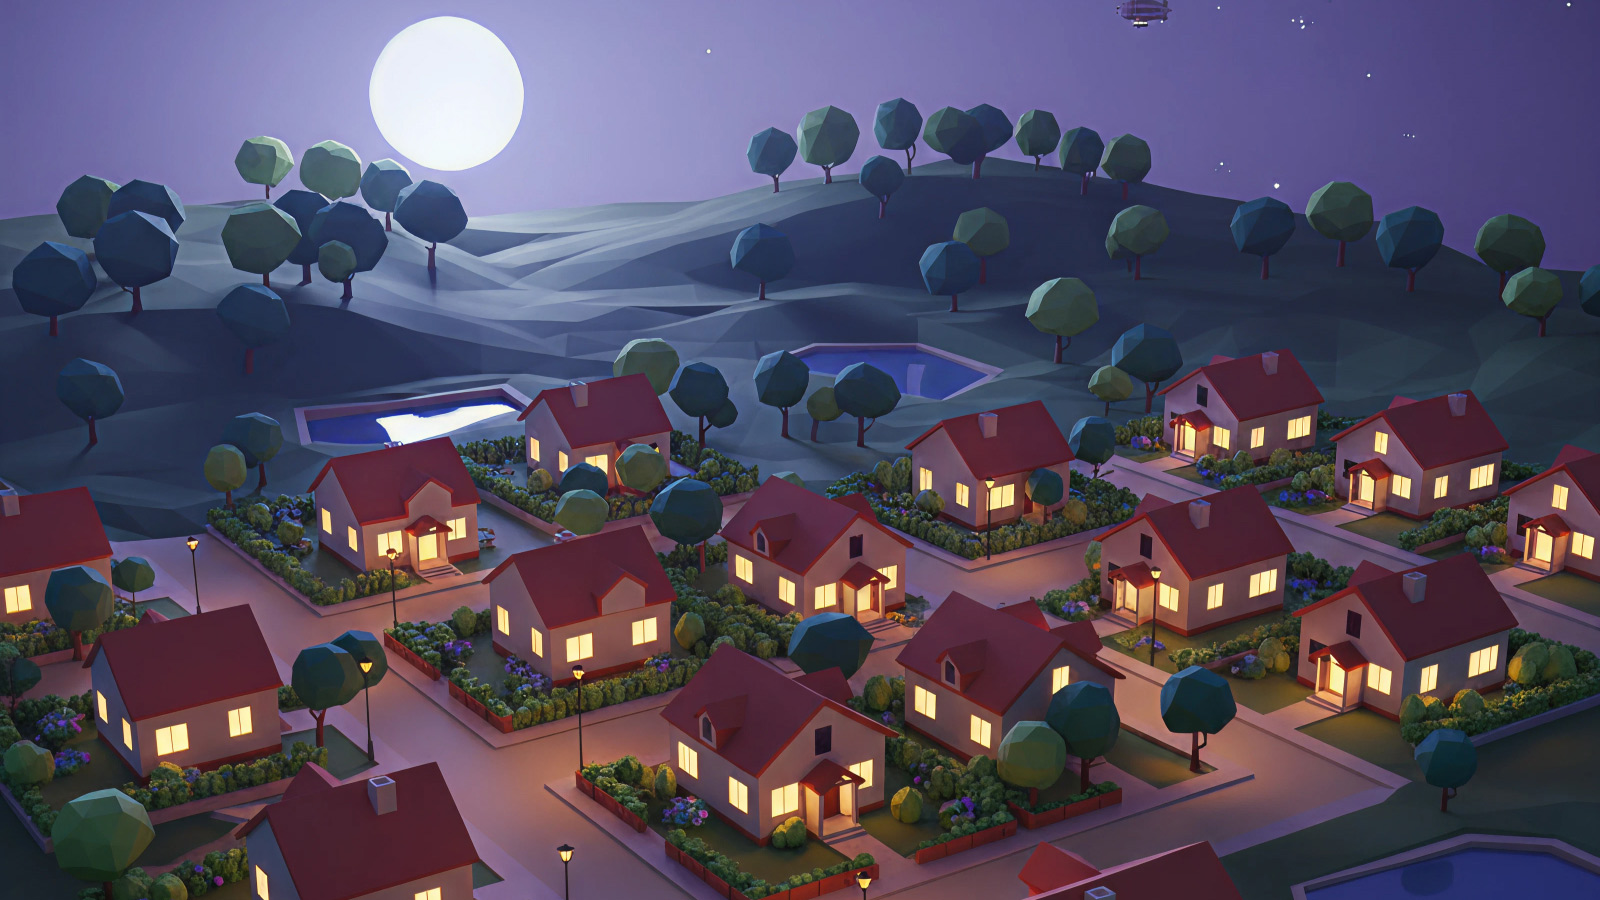
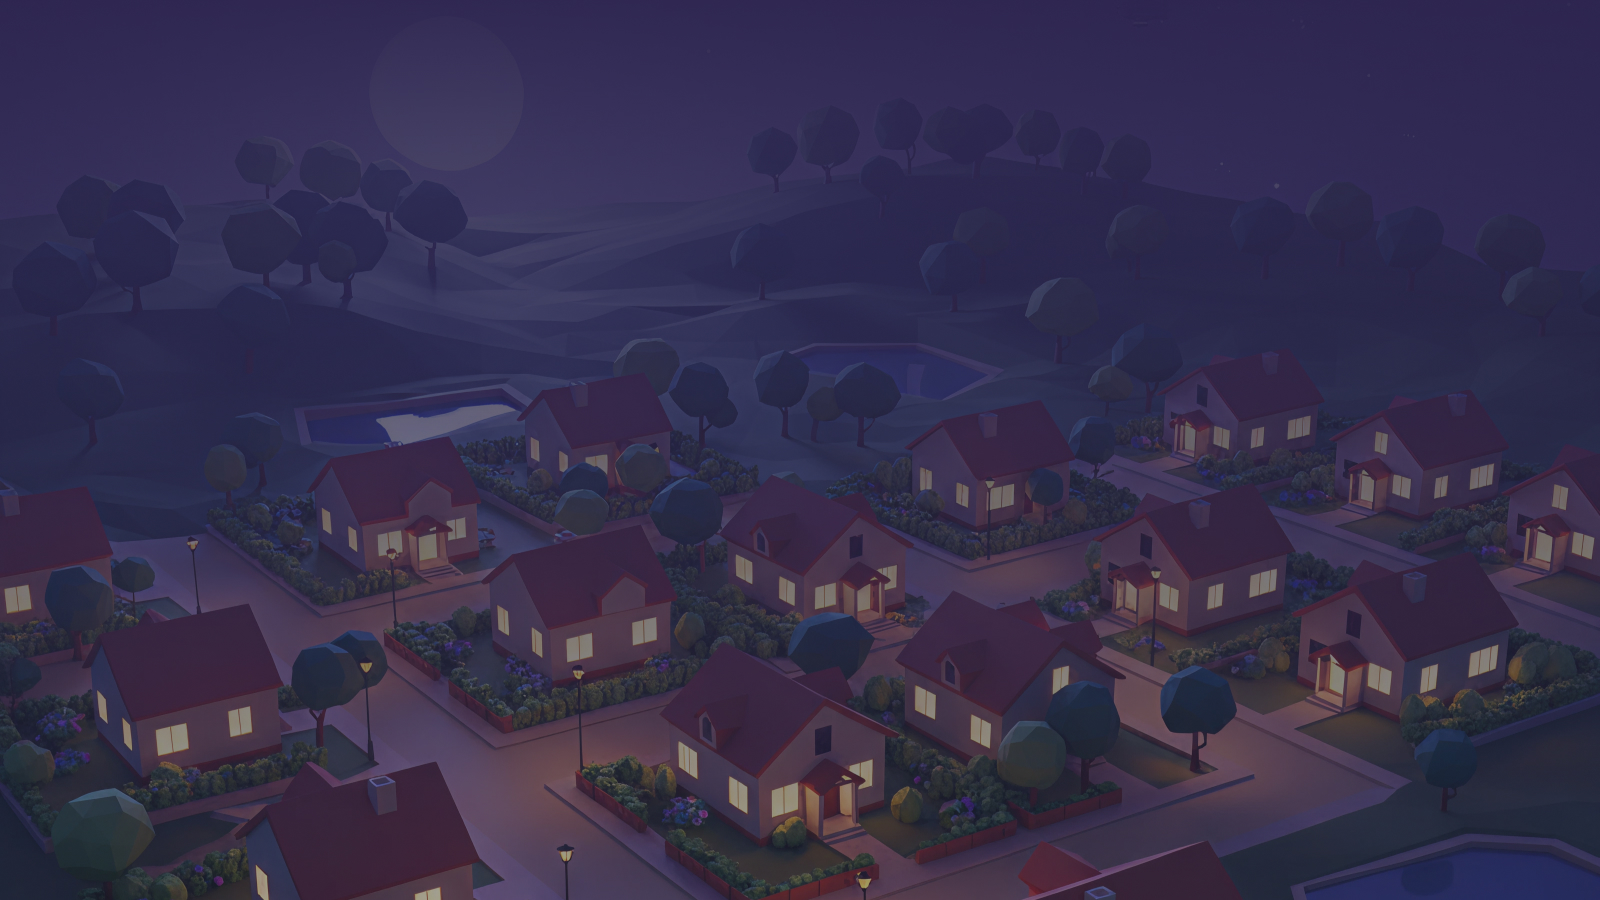
Update mission cards and shop cards styling with beige gradient; update night background

diff --git a/src/ViessmannGame.tsx b/src/ViessmannGame.tsx
@@ -28,6 +28,8 @@ import smogLM from './assets/ui/Smog_LM.png';
 import smogDM from './assets/ui/Smog_DM.png';
 import ecoLM from './assets/ui/Eco_LM.png';
 import ecoDM from './assets/ui/Eco_DM.png';
+import homeLM from './assets/ui/Home_LM.png';
+import homeDM from './assets/ui/Home_DM.png';
 import logo from './assets/ui/Logo.svg';
 import dayBg from './assets/ui/day_bg.jpg';
 import nightBg from './assets/ui/night_bg.jpg';
@@ -2288,7 +2290,17 @@ export default function ViessmannGame() {
                   justifyContent: 'center'
                 }}
               >
-                <img src={isDay ? eventsLM : eventsDM} alt={t('events.altText', { ns: 'ui' })} style={{ width: '100%', height: '100%', objectFit: 'cover', opacity: 0.94 }} />
+                <img 
+                  src={isDay ? eventsLM : eventsDM} 
+                  alt={t('events.altText', { ns: 'ui' })} 
+                  style={{ 
+                    width: '100%', 
+                    height: '100%', 
+                    objectFit: 'cover', 
+                    opacity: 0.94,
+                    filter: 'brightness(1.1) saturate(1.3) hue-rotate(-10deg) contrast(1.05)'
+                  }} 
+                />
               </button>
               {badgeCount > 0 && (
                 <span
@@ -2352,7 +2364,17 @@ export default function ViessmannGame() {
                   justifyContent: 'center'
                 }}
               >
-                <img src={isDay ? ecoLM : ecoDM} alt="Eko-reputacja" style={{ width: '100%', height: '100%', objectFit: 'cover', opacity: 0.94 }} />
+                <img 
+                  src={isDay ? ecoLM : ecoDM} 
+                  alt="Eko-reputacja" 
+                  style={{ 
+                    width: '100%', 
+                    height: '100%', 
+                    objectFit: 'cover', 
+                    opacity: 0.94,
+                    filter: 'brightness(1.1) saturate(1.3) hue-rotate(-10deg) contrast(1.05)'
+                  }} 
+                />
               </button>
               {ecoRep < 40 && (
                 <span
@@ -2866,7 +2888,43 @@ export default function ViessmannGame() {
       {/* body */}
       <main style={gridWrap}>
         {/* shop */}
-        <section style={{ ...card, position: 'relative' }}>
+        <section style={{ 
+          ...card, 
+          position: 'relative',
+          overflow: 'visible',
+          marginLeft: 8,
+          marginTop: 32,
+          paddingTop: 56
+        }}>
+          {/* Home icon */}
+          <div style={{ display: "flex", justifyContent: "center", marginTop: -92, marginBottom: 10 }}>
+            <div
+              style={{
+                position: "relative",
+                width: 96,
+                height: 96,
+                borderRadius: "50%",
+                background: isDay
+                  ? "linear-gradient(160deg, #fff8ec 0%, #feddac 60%, #f5c07a 100%)"
+                  : "linear-gradient(160deg, #3a2f4f 0%, #2a2342 55%, #1c172d 100%)",
+                border: isDay ? "3px solid #f3d9ad" : "3px solid #3a3053",
+                boxShadow: isDay
+                  ? "0 3px 12px rgba(139,117,91,0.25), inset 0 1px 4px rgba(255,255,255,0.6)"
+                  : "0 3px 12px rgba(0,0,0,0.4), inset 0 1px 4px rgba(255,255,255,0.08)",
+                display: "flex",
+                alignItems: "center",
+                justifyContent: "center",
+                overflow: "visible",
+                zIndex: 2
+              }}
+            >
+              <img
+                src={isDay ? homeLM : homeDM}
+                alt="Ikona domu"
+                style={{ width: 82, height: 82, objectFit: "contain" }}
+              />
+            </div>
+          </div>
           {(() => {
             const baseStyle = {
               borderRadius: 12,
@@ -2989,21 +3047,21 @@ export default function ViessmannGame() {
                     display: "flex",
                     flexDirection: "column",
                     minHeight: 120,
-                    background: isDay ? (card.background ?? "rgba(255,255,255,0.7)") : "#0f172a",
+                    background: isDay ? 'linear-gradient(160deg,#fff3da,#fde2b9,#f7d2a1)' : 'linear-gradient(160deg,#2f2a3d,#262135,#1d192a)',
                     transition: "transform 120ms ease, box-shadow 120ms ease, border-color 120ms ease",
-                    border: isDay ? "1px solid rgba(0,0,0,0.06)" : "1px solid #1f2937",
-                    boxShadow: "0 2px 8px rgba(0,0,0,0.06)",
+                    border: isDay ? '2px solid rgba(139,117,91,0.2)' : '2px solid rgba(148,163,184,0.2)',
+                    boxShadow: isDay ? '0 4px 12px rgba(0,0,0,0.08)' : '0 4px 12px rgba(0,0,0,0.3)',
                     cursor: done ? "default" : "pointer",
                   }}
                   onMouseEnter={(e) => {
-                    (e.currentTarget as HTMLDivElement).style.boxShadow = isDay ? "0 4px 12px rgba(0,0,0,0.08)" : "0 4px 12px rgba(0,0,0,0.28)";
+                    (e.currentTarget as HTMLDivElement).style.boxShadow = isDay ? "0 6px 16px rgba(0,0,0,0.12)" : "0 6px 16px rgba(0,0,0,0.4)";
                     (e.currentTarget as HTMLDivElement).style.transform = "translateY(-0.5px)";
-                    (e.currentTarget as HTMLDivElement).style.borderColor = isDay ? "#e5e7eb" : "#2b3647";
+                    (e.currentTarget as HTMLDivElement).style.borderColor = isDay ? "rgba(139,117,91,0.3)" : "rgba(148,163,184,0.3)";
                   }}
                   onMouseLeave={(e) => {
-                    (e.currentTarget as HTMLDivElement).style.boxShadow = "0 2px 8px rgba(0,0,0,0.06)";
+                    (e.currentTarget as HTMLDivElement).style.boxShadow = isDay ? "0 4px 12px rgba(0,0,0,0.08)" : "0 4px 12px rgba(0,0,0,0.3)";
                     (e.currentTarget as HTMLDivElement).style.transform = "none";
-                    (e.currentTarget as HTMLDivElement).style.borderColor = isDay ? "rgba(0,0,0,0.06)" : "#1f2937";
+                    (e.currentTarget as HTMLDivElement).style.borderColor = isDay ? "rgba(139,117,91,0.2)" : "rgba(148,163,184,0.2)";
                   }}
                   onMouseDown={(e) => {
                     (e.currentTarget as HTMLDivElement).style.transform = "translateY(0) scale(0.998)";

diff --git a/src/components/MissionCard.tsx b/src/components/MissionCard.tsx
@@ -20,24 +20,28 @@ const MissionCard: React.FC<Props> = ({ title, description, reward, imgSrc, comp
   const { t } = useTranslation(['missions', 'ui']);
   const containerStyle: React.CSSProperties = isDay ? {
     borderRadius: 18,
-    padding: 14,
+    padding: '12px 0',
     display: 'flex',
-    gap: 12,
+    gap: 0,
     alignItems: 'center',
-    background: 'rgba(250, 247, 242, 0.85)',
+    minHeight: 90,
+    background: 'linear-gradient(160deg,#fff3da,#fde2b9,#f7d2a1)',
     color: '#4d2b14',
     border: '2px solid rgba(139,117,91,0.2)',
-    boxShadow: '0 4px 12px rgba(0,0,0,0.08)'
+    boxShadow: '0 4px 12px rgba(0,0,0,0.08)',
+    overflow: 'hidden'
   } : {
     borderRadius: 18,
-    padding: 14,
+    padding: '12px 0',
     display: 'flex',
-    gap: 12,
+    gap: 0,
     alignItems: 'center',
-    background: 'rgba(15, 23, 42, 0.85)',
+    minHeight: 90,
+    background: 'linear-gradient(160deg,#2f2a3d,#262135,#1d192a)',
     color: '#e5e7eb',
     border: '2px solid rgba(148,163,184,0.2)',
-    boxShadow: '0 4px 12px rgba(0,0,0,0.3)'
+    boxShadow: '0 4px 12px rgba(0,0,0,0.3)',
+    overflow: 'hidden'
   };
   // if completed, modify border color to green
   if (completed) {
@@ -71,11 +75,11 @@ const MissionCard: React.FC<Props> = ({ title, description, reward, imgSrc, comp
   (descStyle as unknown as Record<string, string|number>)['WebkitBoxOrient'] = 'vertical';
 
   const imgWrapperStyleBase: React.CSSProperties = {
-    width: 70,
-    height: 70,
-    borderRadius: 12,
+    width: 64,
+    height: 64,
+    borderRadius: '0 12px 12px 0',
     overflow: 'hidden',
-    flex: '0 0 70px',
+    flex: '0 0 64px',
     display: 'flex',
     alignItems: 'center',
     justifyContent: 'center',
@@ -84,14 +88,20 @@ const MissionCard: React.FC<Props> = ({ title, description, reward, imgSrc, comp
   const imgWrapperStyle: React.CSSProperties = isDay ? {
     ...imgWrapperStyleBase,
     background: 'linear-gradient(160deg,#fff3da,#fde2b9,#f7d2a1)',
-    border: '1px solid rgba(149,92,32,0.18)'
+    borderTop: '2px solid rgba(139,117,91,0.3)',
+    borderRight: '2px solid rgba(139,117,91,0.3)',
+    borderBottom: '2px solid rgba(139,117,91,0.3)',
+    borderLeft: 'none'
   } : {
     ...imgWrapperStyleBase,
     background: 'linear-gradient(160deg,#2f2a3d,#262135,#1d192a)',
-    border: '1px solid rgba(122,110,191,0.18)'
+    borderTop: '2px solid rgba(148,163,184,0.3)',
+    borderRight: '2px solid rgba(148,163,184,0.3)',
+    borderBottom: '2px solid rgba(148,163,184,0.3)',
+    borderLeft: 'none'
   };
   if (completed) {
-    (imgWrapperStyle as unknown as Record<string, string>)['border'] = '2px solid #7BB894';
+    (imgWrapperStyle as unknown as Record<string, string>)['borderRight'] = '3px solid #7BB894';
   }
 
   const renderTitle = () => {
@@ -120,12 +130,12 @@ const MissionCard: React.FC<Props> = ({ title, description, reward, imgSrc, comp
           <div style={{ width: '100%', height: '100%', display: 'flex', alignItems: 'center', justifyContent: 'center', background: isDay ? '#fff' : '#2a233f' }} />
         )}
       </div>
-      <div style={{ flex: 1, minWidth: 0 }}>
+      <div style={{ flex: 1, minWidth: 0, padding: '0 14px' }}>
   <div style={titleStyle}>{renderTitle()}{completed ? ' ✓' : ''}</div>
   <div style={descStyle}>{renderDescription()}</div>
-        <div style={{ marginTop: 10, display: 'flex', alignItems: 'center', gap: 8 }}>
-          <img src={viCoin} alt="ViCoin" style={{ width: 18, height: 18 }} />
-          <div style={{ fontWeight: 700, fontSize: 13 }}>{reward}</div>
+        <div style={{ marginTop: 10, display: 'flex', alignItems: 'center', gap: 4 }}>
+          <img src={viCoin} alt="ViCoin" style={{ width: 16, height: 16 }} />
+          <div style={{ fontWeight: 700, fontSize: 11 }}>{reward}</div>
         </div>
       </div>
     </div>
